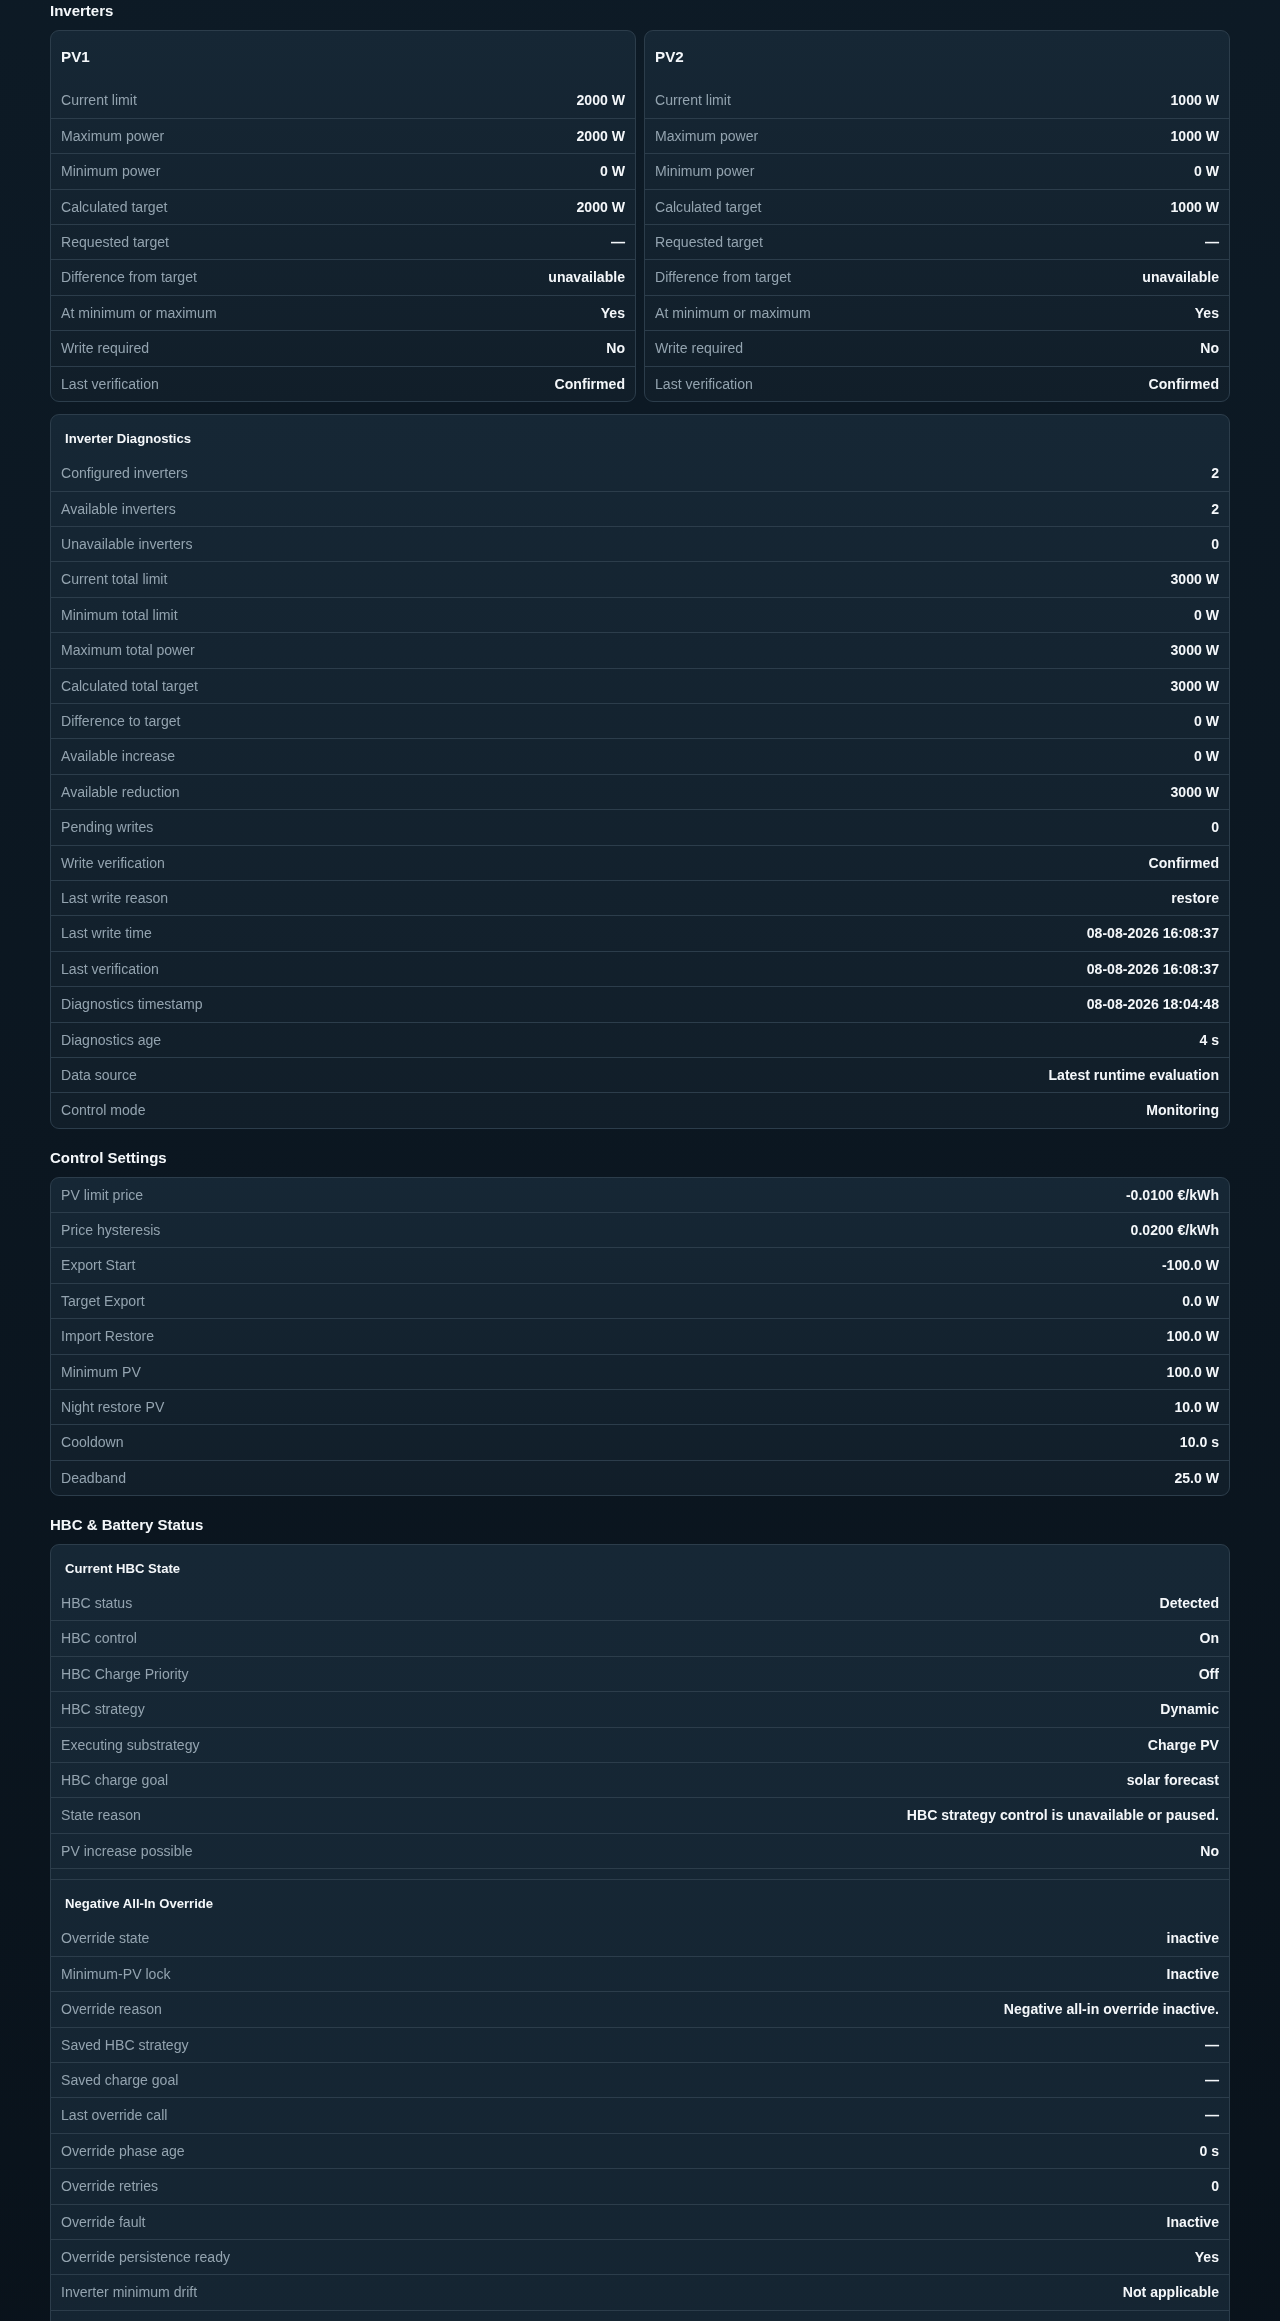
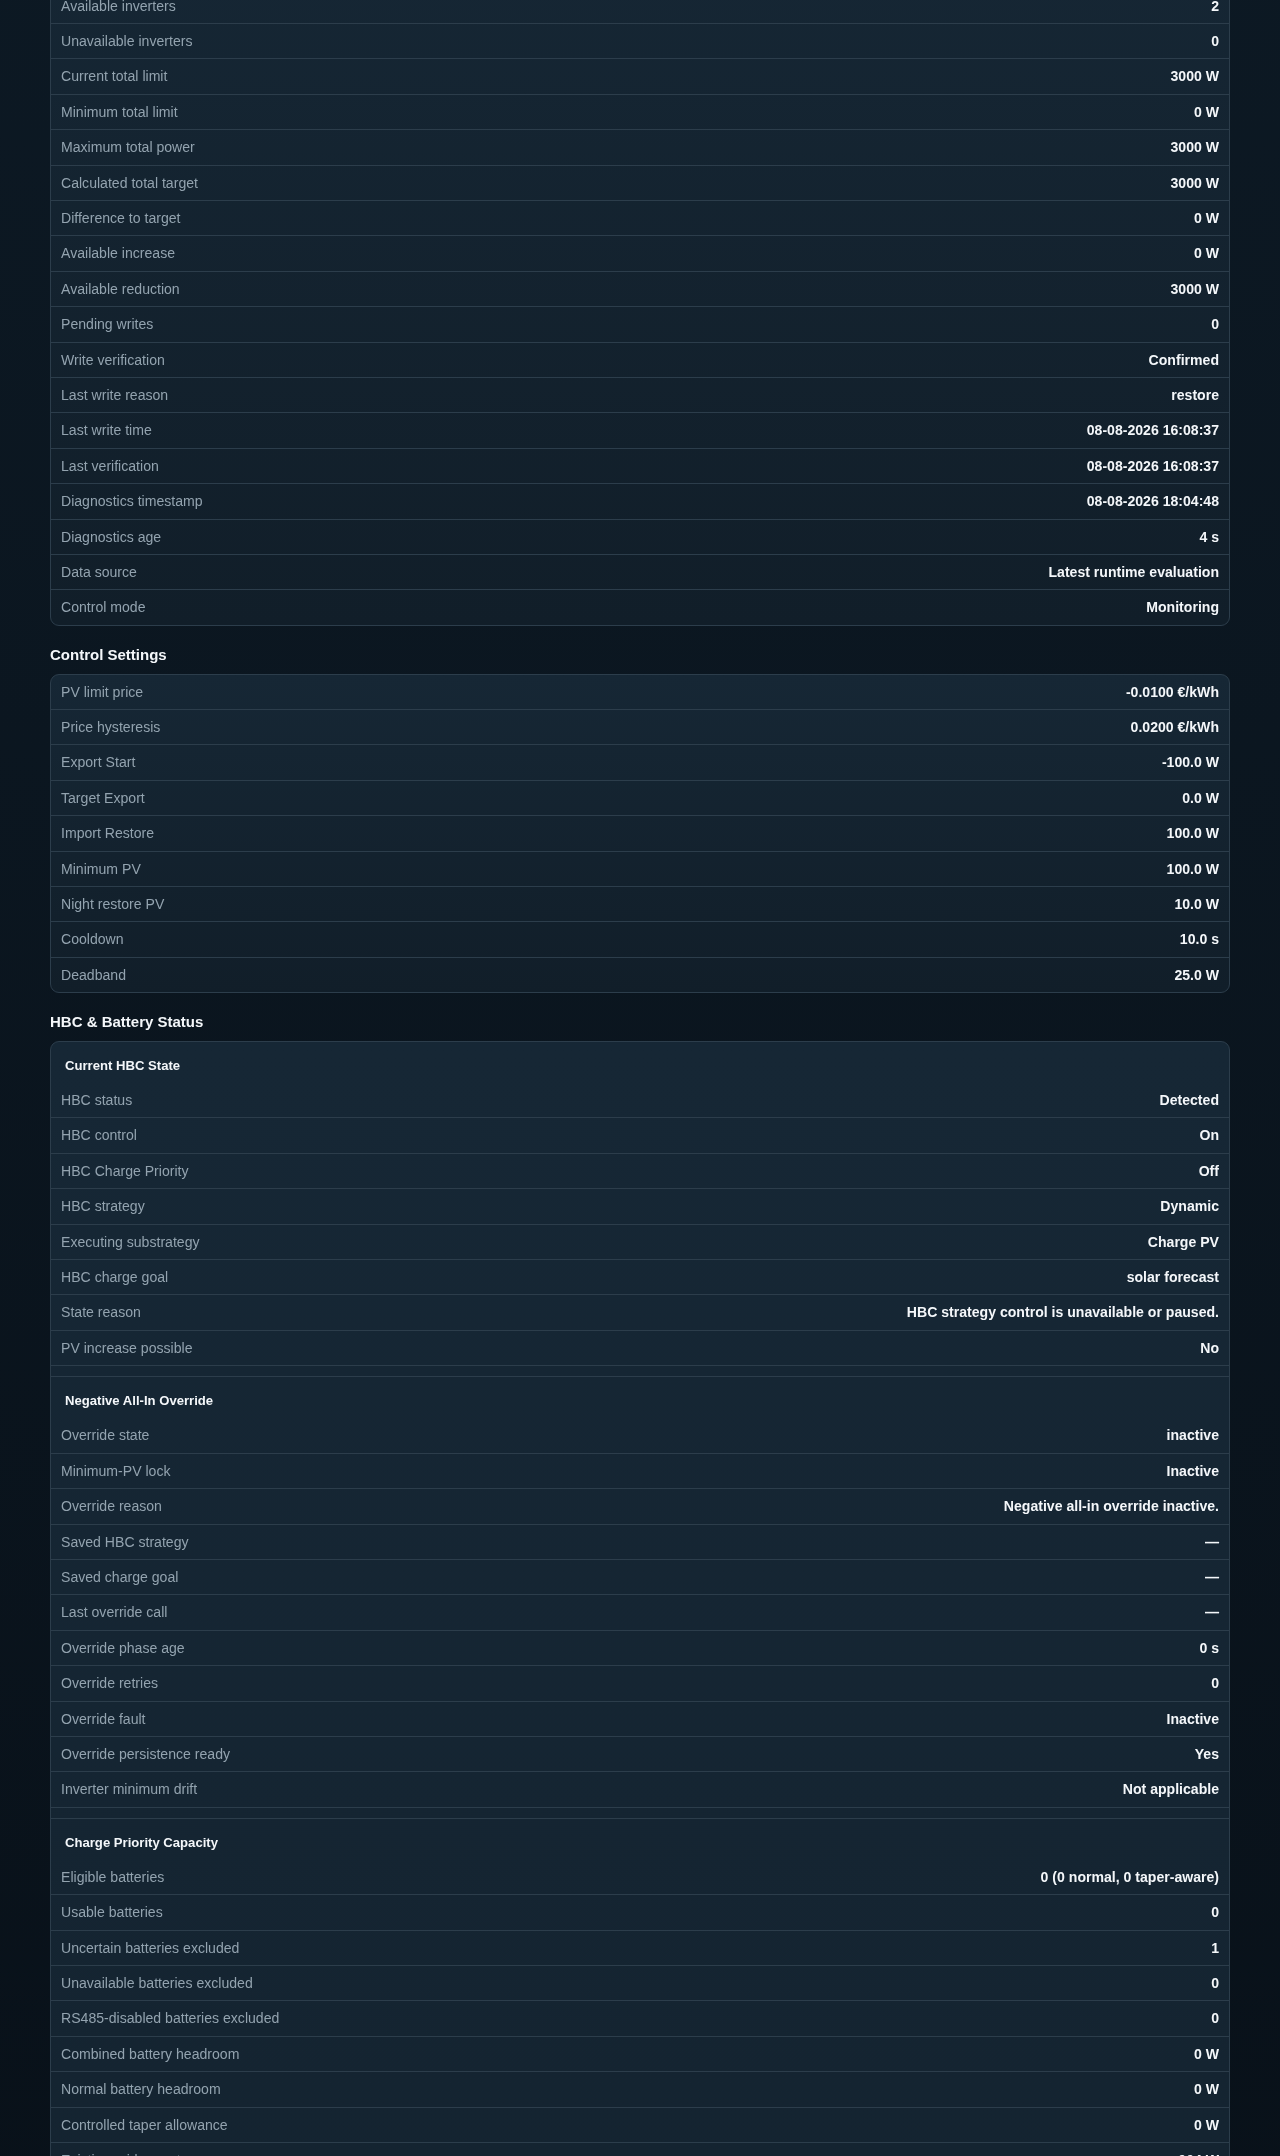
Add files via upload

diff --git a/README.md b/README.md
@@ -188,13 +188,13 @@ For Home Battery Control itself, see the [HBC documentation](https://docs.homeba
 
 ### Support report
 
-The report preview is split into four balanced parts at section or subsection boundaries. Click any part to open it at full resolution.
+The report preview is split into four equal-height parts. Click any part to open it at full resolution.
 
 <p align="center">
-  <a href="assets/screenshots/report_part_1.png"><img src="assets/screenshots/report_part_1.png" alt="HPVC support report — Summary through Accuracy" width="20%" title="Click to view full size"></a>
-  <a href="assets/screenshots/report_part_2.png"><img src="assets/screenshots/report_part_2.png" alt="HPVC support report — Inverters, Settings, HBC Current State and Negative Override" width="20%" title="Click to view full size"></a>
-  <a href="assets/screenshots/report_part_3.png"><img src="assets/screenshots/report_part_3.png" alt="HPVC support report — Charge Priority Capacity, Batteries and HBC diagnostics" width="20%" title="Click to view full size"></a>
-  <a href="assets/screenshots/report_part_4.png"><img src="assets/screenshots/report_part_4.png" alt="HPVC support report — Sensor Health, Insights and Power Control" width="20%" title="Click to view full size"></a>
+  <a href="assets/screenshots/report_part_1.png"><img src="assets/screenshots/report_part_1.png" alt="HPVC support report — part 1" width="20%" title="Click to view full size"></a>
+  <a href="assets/screenshots/report_part_2.png"><img src="assets/screenshots/report_part_2.png" alt="HPVC support report — part 2" width="20%" title="Click to view full size"></a>
+  <a href="assets/screenshots/report_part_3.png"><img src="assets/screenshots/report_part_3.png" alt="HPVC support report — part 3" width="20%" title="Click to view full size"></a>
+  <a href="assets/screenshots/report_part_4.png"><img src="assets/screenshots/report_part_4.png" alt="HPVC support report — part 4" width="20%" title="Click to view full size"></a>
 </p>
 
 ### Node-RED architecture overview
